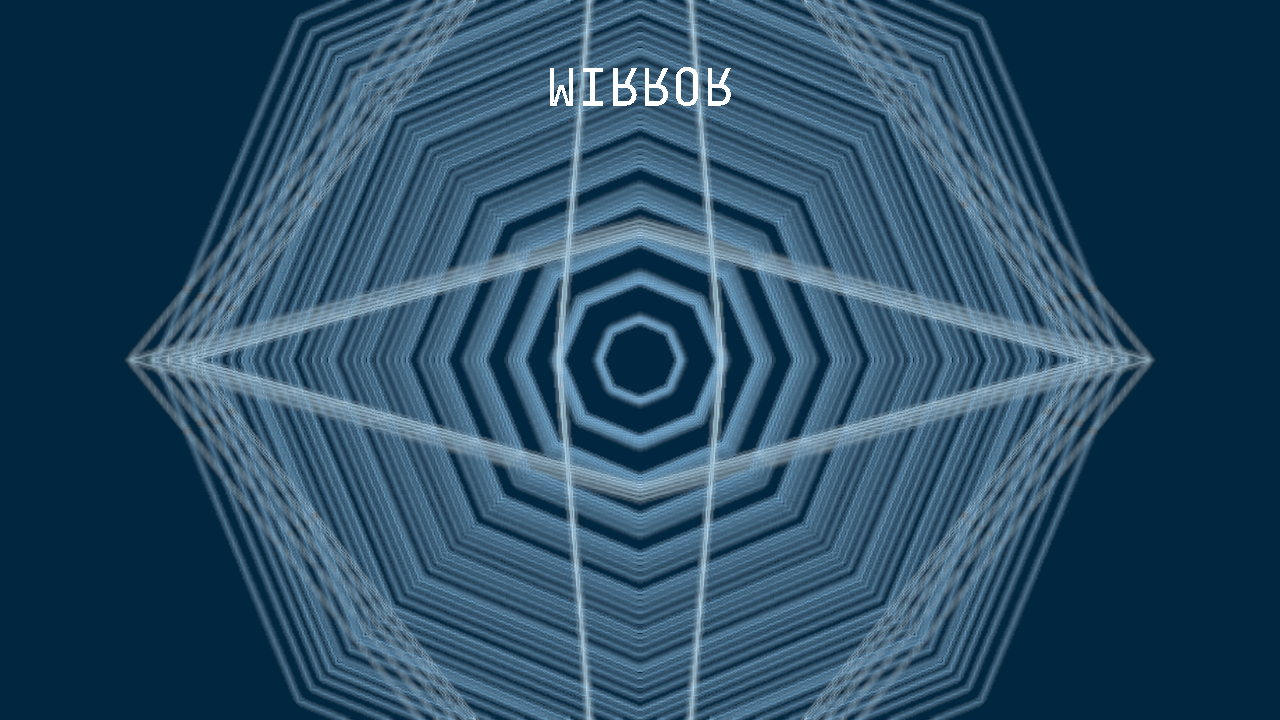
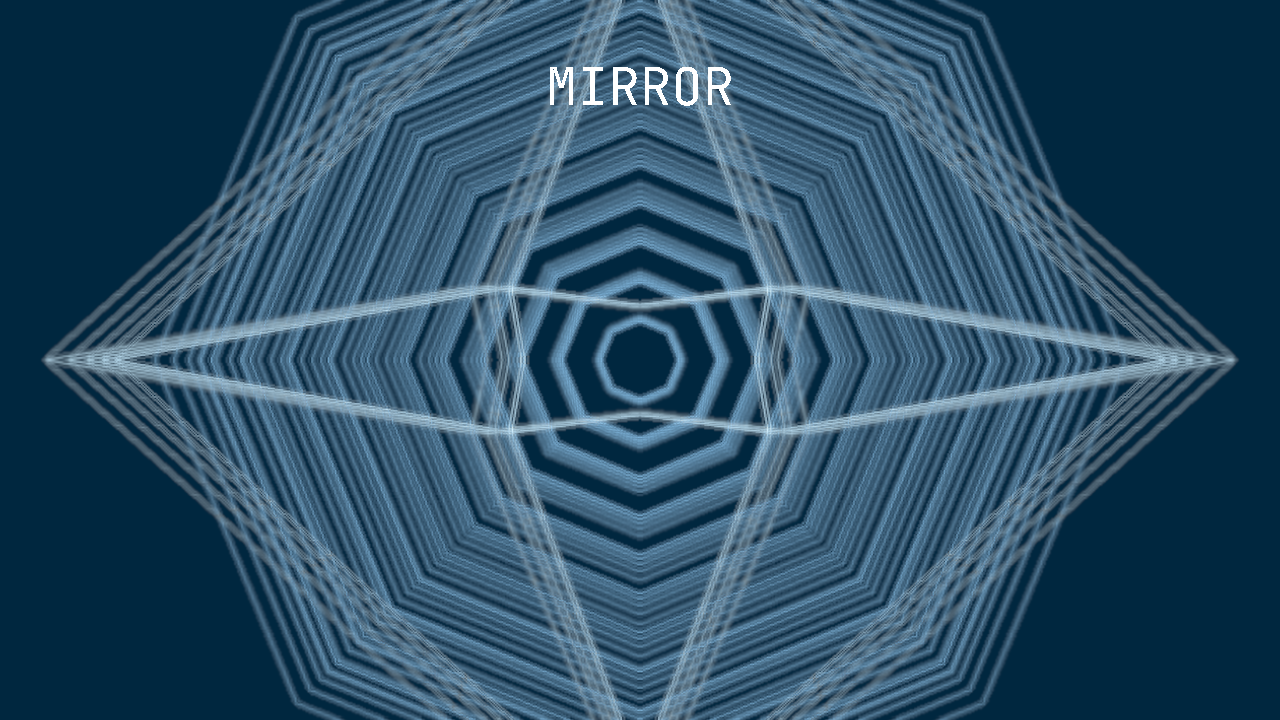
Fix VectorText vertical flip; relabel showcase links
VectorText rendered glyphs upside-down (FreeType outlines are Y-up but the
composited output is Y-flipped), so the "Mirror" showcase title read as a
vertically-mirrored "MIRROR". Only asymmetric content exposed it — the symmetric
geometry ops looked fine either way. Negate the glyph Y in vectortext.cpp's
vs_fan vertex shader so text renders upright about its own centre (position/posy
unaffected). Fixes text everywhere VectorText is used.

- Re-captured the Mirror hero on the dev build with the fix (title now reads
  "MIRROR" correctly); manifest updated + provenance noted.
- Showcase card CTA relabeled "View the project" -> "View the builder": the
  cards link to the tracked, regenerable .py builder (saved project.json files
  are git-ignored), so the label now matches what it opens.

Claude-Session: https://claude.ai/code/session_01QB6eSNJE55ru3g4vsL77GT

Changed region(s): [[0.0312, 0.0, 0.9688, 1.0]]

diff --git a/site/templates/_showcase_card.html b/site/templates/_showcase_card.html
@@ -6,6 +6,6 @@
             <span class="tag">Type $type &middot; $mechanism</span>
             <h3 class="showcase-name">$title</h3>
             <p class="showcase-blurb">$blurb</p>
-            <a class="card-link" href="$source" rel="noopener" target="_blank">View the project &rarr;</a>
+            <a class="card-link" href="$source" rel="noopener" target="_blank">View the builder &rarr;</a>
           </div>
         </article>

diff --git a/app/operators/packages/core-visuals/vectortext.cpp b/app/operators/packages/core-visuals/vectortext.cpp
@@ -25,7 +25,9 @@ const char* kVectorTextWGSL = R"(
 struct U { res: vec2f, time: f32, size: f32, posx: f32, posy: f32, pad0: f32, pad1: f32, fill: vec4f };
 @group(0) @binding(0) var<uniform> u: U;
 @vertex fn vs_fan(@location(0) p: vec2f) -> @builtin(position) vec4f {
-    var q = vec2f(p.x, p.y) * (u.size * 1.6);
+    // FreeType glyph outlines are Y-up; the composited output is Y-flipped, so negate glyph Y here
+    // to render text upright (about its own centre — position/posy is unaffected).
+    var q = vec2f(p.x, -p.y) * (u.size * 1.6);
     q.x = q.x * (u.res.y / max(u.res.x, 1.0));   // aspect-correct against the REAL target
     q = q + vec2f((u.posx - 0.5) * 2.0, (u.posy - 0.5) * 2.0);
     return vec4f(q, 0.0, 1.0);
